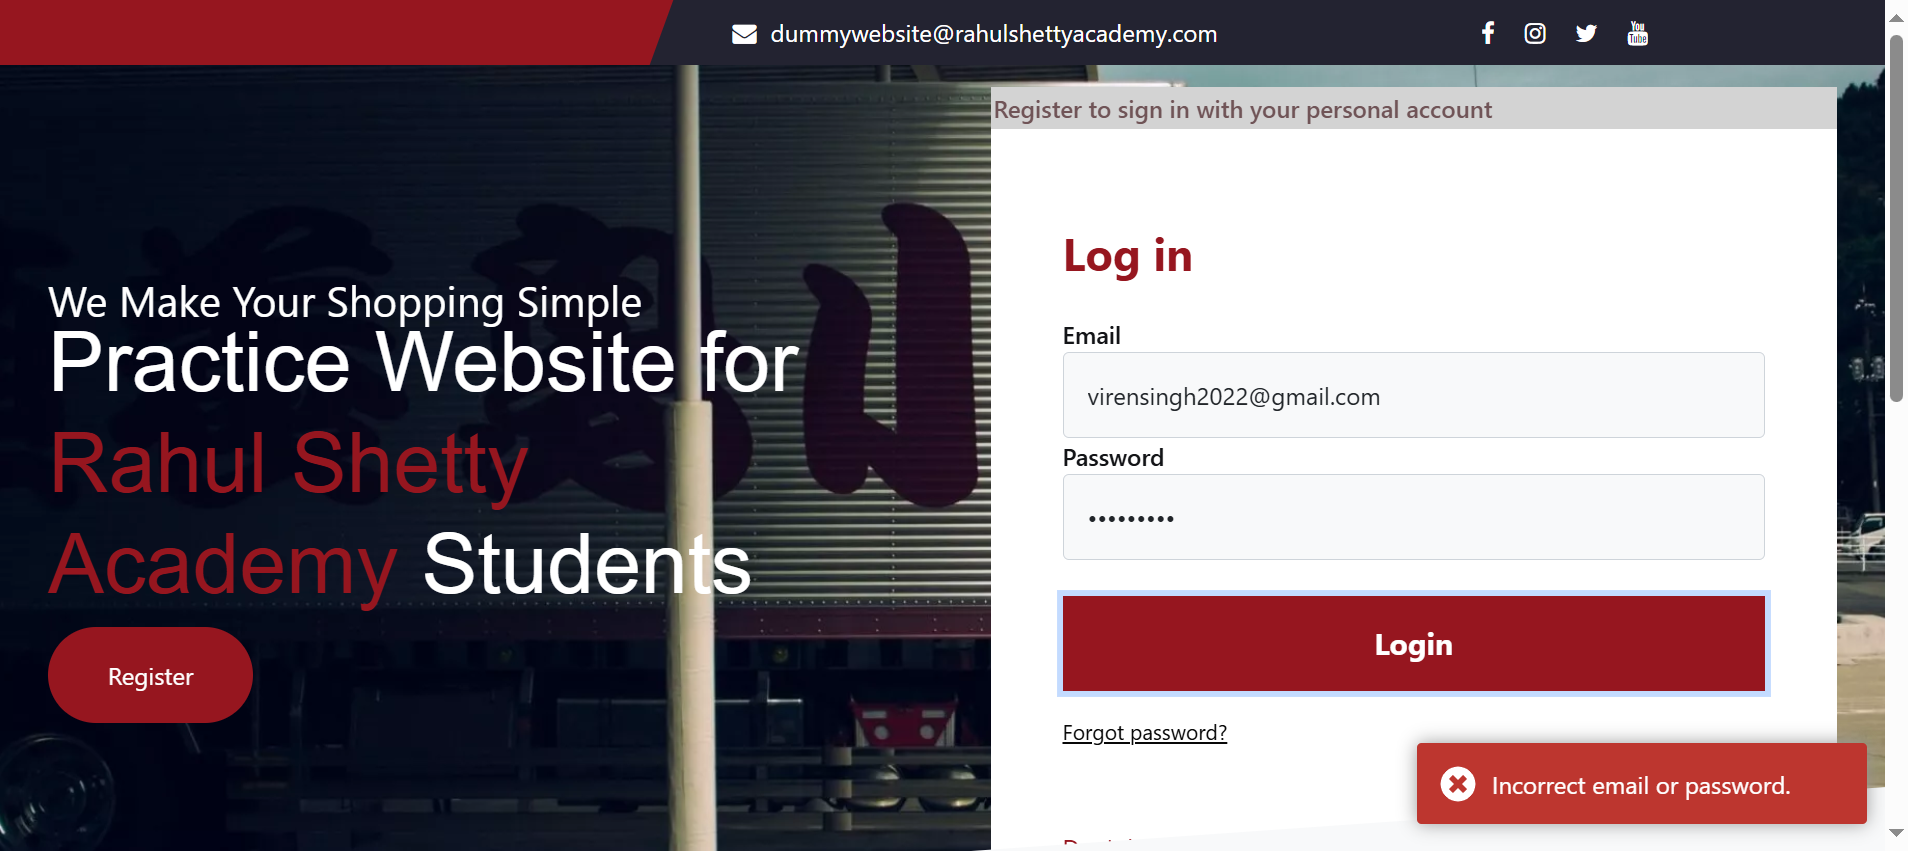
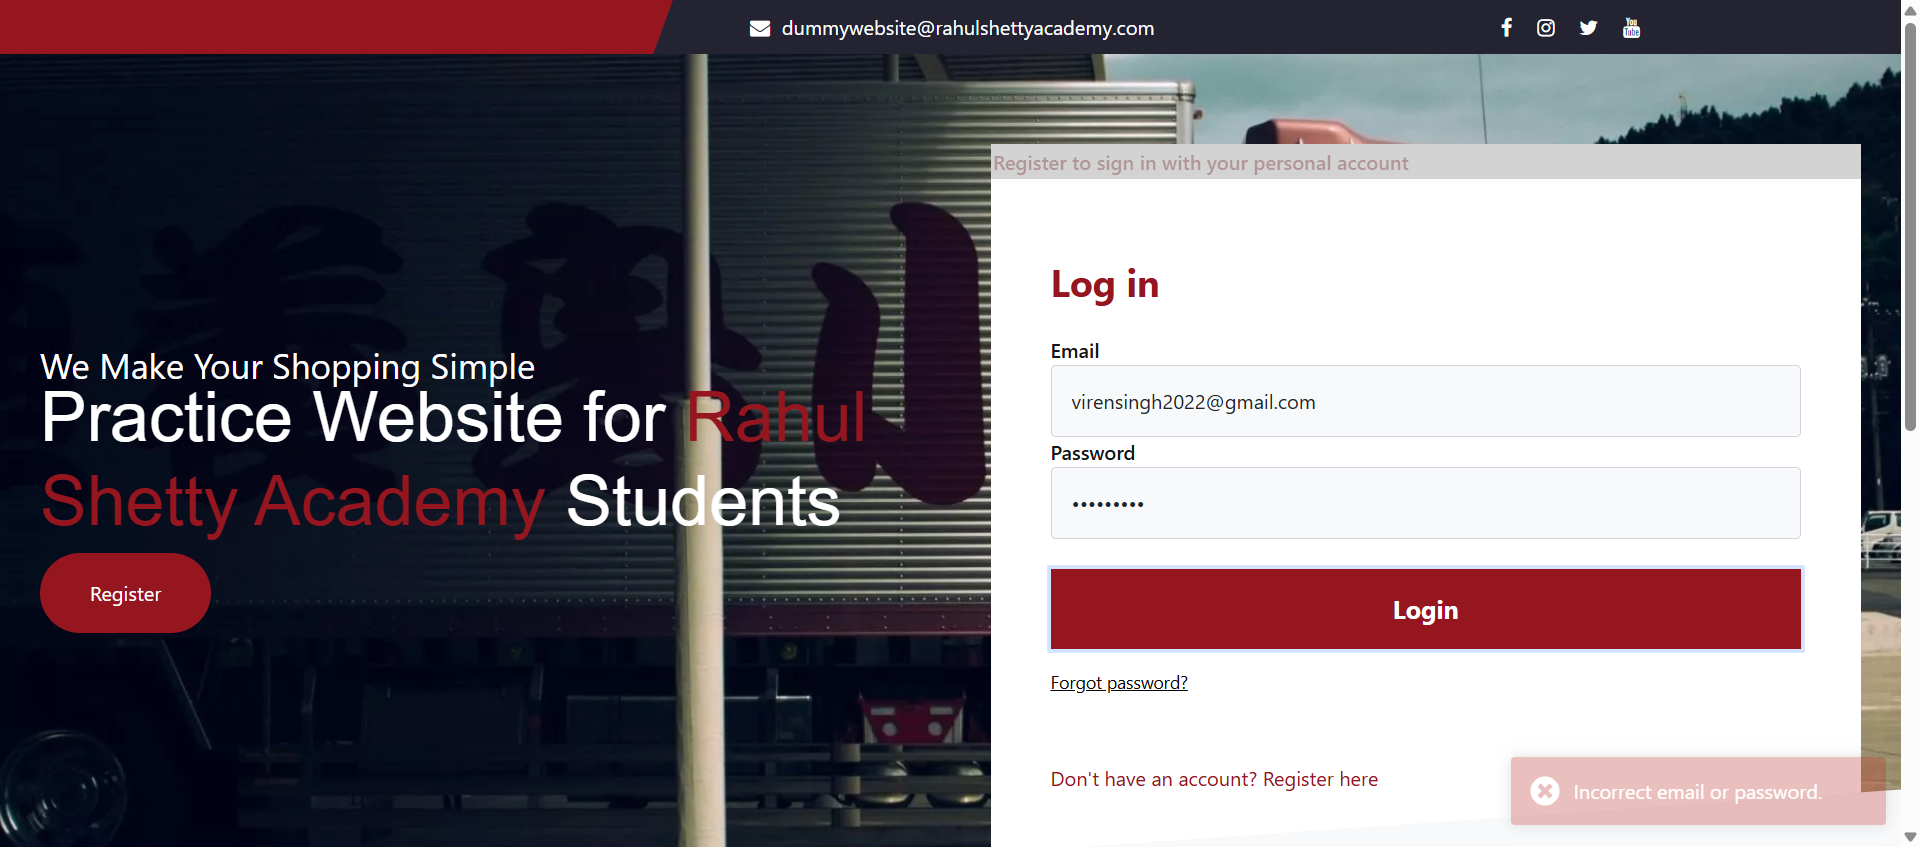
added headless browser and maximized window

diff --git a/reports/index.html b/reports/index.html
@@ -35,7 +35,7 @@
 <a href="#"><span class="badge badge-primary">Web Automation Results</span></a>
 </li>
 <li class="m-r-10">
-<a href="#"><span class="badge badge-primary">May 29, 2025 09:48:03 am</span></a>
+<a href="#"><span class="badge badge-primary">May 31, 2025 01:58:35 AM</span></a>
 </li>
 </ul>
 </div>
@@ -87,7 +87,7 @@
           <div class="test-detail">
             <p class="name">LoginErrorValidation</p>
             <p class="text-sm">
-              <span>09:48:20</span> / <span>00:00:00:000</span>
+              <span>1:58:41 AM</span> / <span>00:00:00:000</span>
               <span class="badge pass-bg log float-right">Pass</span>
             </p>
           </div>
@@ -96,8 +96,8 @@
 <div class="p-v-10">
 <div class="info">
 <h5 class="test-status text-pass">LoginErrorValidation</h5>
-<span class='badge badge-success'>05.29.2025 09:48:20</span>
-<span class='badge badge-danger'>05.29.2025 09:48:20</span>
+<span class='badge badge-success'>05.31.2025 1:58:41 AM</span>
+<span class='badge badge-danger'>05.31.2025 1:58:41 AM</span>
 <span class='badge badge-default'>00:00:00:000</span>
 &middot; <span class='uri-anchor badge badge-default'>#test-id=1</span>
 <span title='Skip to the next failed step' class='badge badge-danger pointer float-right ne ml-1'><i class="fa fa-fast-forward"></i></span>
@@ -114,7 +114,7 @@
           <div class="test-detail">
             <p class="name">SubmitOrder</p>
             <p class="text-sm">
-              <span>09:48:20</span> / <span>00:00:23:235</span>
+              <span>1:58:41 AM</span> / <span>00:00:19:835</span>
               <span class="badge pass-bg log float-right">Pass</span>
             </p>
           </div>
@@ -123,9 +123,9 @@
 <div class="p-v-10">
 <div class="info">
 <h5 class="test-status text-pass">SubmitOrder</h5>
-<span class='badge badge-success'>05.29.2025 09:48:20</span>
-<span class='badge badge-danger'>05.29.2025 09:48:43</span>
-<span class='badge badge-default'>00:00:23:235</span>
+<span class='badge badge-success'>05.31.2025 1:58:41 AM</span>
+<span class='badge badge-danger'>05.31.2025 1:59:01 AM</span>
+<span class='badge badge-default'>00:00:19:835</span>
 &middot; <span class='uri-anchor badge badge-default'>#test-id=2</span>
 <span title='Skip to the next failed step' class='badge badge-danger pointer float-right ne ml-1'><i class="fa fa-fast-forward"></i></span>
 <span title='Collapse all nodes' class='badge badge-default pointer float-right ct ml-1'><i class="fa fa-compress"></i></span>
@@ -138,7 +138,7 @@
   <tbody>
       <tr class="event-row">
         <td><span class="badge log pass-bg">Pass</span></td>
-        <td>09:48:43</td>
+        <td>1:59:01 AM</td>
         <td>
           Test Passed
         </td>
@@ -155,7 +155,7 @@
           <div class="test-detail">
             <p class="name">LoginErrorValidation</p>
             <p class="text-sm">
-              <span>09:48:32</span> / <span>00:00:01:826</span>
+              <span>1:58:44 AM</span> / <span>00:00:00:693</span>
               <span class="badge fail-bg log float-right">Fail</span>
             </p>
           </div>
@@ -164,9 +164,9 @@
 <div class="p-v-10">
 <div class="info">
 <h5 class="test-status text-fail">LoginErrorValidation</h5>
-<span class='badge badge-success'>05.29.2025 09:48:32</span>
-<span class='badge badge-danger'>05.29.2025 09:48:34</span>
-<span class='badge badge-default'>00:00:01:826</span>
+<span class='badge badge-success'>05.31.2025 1:58:44 AM</span>
+<span class='badge badge-danger'>05.31.2025 1:58:44 AM</span>
+<span class='badge badge-default'>00:00:00:693</span>
 &middot; <span class='uri-anchor badge badge-default'>#test-id=3</span>
 <span title='Skip to the next failed step' class='badge badge-danger pointer float-right ne ml-1'><i class="fa fa-fast-forward"></i></span>
 <span title='Collapse all nodes' class='badge badge-default pointer float-right ct ml-1'><i class="fa fa-compress"></i></span>
@@ -187,7 +187,7 @@
   <tbody>
       <tr class="event-row">
         <td><span class="badge log fail-bg">Fail</span></td>
-        <td>09:48:33</td>
+        <td>1:58:44 AM</td>
         <td>
           <textarea readonly class="code-block">java.lang.AssertionError: expected [Incorrect email or password.] but found [Incorrect email  password.]
 	at org.testng.Assert.fail(Assert.java:111)
@@ -235,7 +235,7 @@
           <div class="test-detail">
             <p class="name">ProductErrorValidation</p>
             <p class="text-sm">
-              <span>09:48:41</span> / <span>00:00:02:980</span>
+              <span>1:58:46 AM</span> / <span>00:00:01:910</span>
               <span class="badge pass-bg log float-right">Pass</span>
             </p>
           </div>
@@ -244,9 +244,9 @@
 <div class="p-v-10">
 <div class="info">
 <h5 class="test-status text-pass">ProductErrorValidation</h5>
-<span class='badge badge-success'>05.29.2025 09:48:41</span>
-<span class='badge badge-danger'>05.29.2025 09:48:44</span>
-<span class='badge badge-default'>00:00:02:980</span>
+<span class='badge badge-success'>05.31.2025 1:58:46 AM</span>
+<span class='badge badge-danger'>05.31.2025 1:58:48 AM</span>
+<span class='badge badge-default'>00:00:01:910</span>
 &middot; <span class='uri-anchor badge badge-default'>#test-id=4</span>
 <span title='Skip to the next failed step' class='badge badge-danger pointer float-right ne ml-1'><i class="fa fa-fast-forward"></i></span>
 <span title='Collapse all nodes' class='badge badge-default pointer float-right ct ml-1'><i class="fa fa-compress"></i></span>
@@ -259,7 +259,7 @@
   <tbody>
       <tr class="event-row">
         <td><span class="badge log pass-bg">Pass</span></td>
-        <td>09:48:44</td>
+        <td>1:58:48 AM</td>
         <td>
           Test Passed
         </td>
@@ -276,7 +276,7 @@
           <div class="test-detail">
             <p class="name">SubmitOrder</p>
             <p class="text-sm">
-              <span>09:48:49</span> / <span>00:00:21:533</span>
+              <span>1:59:02 AM</span> / <span>00:00:19:690</span>
               <span class="badge pass-bg log float-right">Pass</span>
             </p>
           </div>
@@ -285,9 +285,9 @@
 <div class="p-v-10">
 <div class="info">
 <h5 class="test-status text-pass">SubmitOrder</h5>
-<span class='badge badge-success'>05.29.2025 09:48:49</span>
-<span class='badge badge-danger'>05.29.2025 09:49:11</span>
-<span class='badge badge-default'>00:00:21:533</span>
+<span class='badge badge-success'>05.31.2025 1:59:02 AM</span>
+<span class='badge badge-danger'>05.31.2025 1:59:22 AM</span>
+<span class='badge badge-default'>00:00:19:690</span>
 &middot; <span class='uri-anchor badge badge-default'>#test-id=5</span>
 <span title='Skip to the next failed step' class='badge badge-danger pointer float-right ne ml-1'><i class="fa fa-fast-forward"></i></span>
 <span title='Collapse all nodes' class='badge badge-default pointer float-right ct ml-1'><i class="fa fa-compress"></i></span>
@@ -300,7 +300,7 @@
   <tbody>
       <tr class="event-row">
         <td><span class="badge log pass-bg">Pass</span></td>
-        <td>09:49:11</td>
+        <td>1:59:22 AM</td>
         <td>
           Test Passed
         </td>
@@ -317,7 +317,7 @@
           <div class="test-detail">
             <p class="name">OrderHistoryTest</p>
             <p class="text-sm">
-              <span>09:49:17</span> / <span>00:00:01:332</span>
+              <span>1:59:23 AM</span> / <span>00:00:00:586</span>
               <span class="badge pass-bg log float-right">Pass</span>
             </p>
           </div>
@@ -326,9 +326,9 @@
 <div class="p-v-10">
 <div class="info">
 <h5 class="test-status text-pass">OrderHistoryTest</h5>
-<span class='badge badge-success'>05.29.2025 09:49:17</span>
-<span class='badge badge-danger'>05.29.2025 09:49:18</span>
-<span class='badge badge-default'>00:00:01:332</span>
+<span class='badge badge-success'>05.31.2025 1:59:23 AM</span>
+<span class='badge badge-danger'>05.31.2025 1:59:24 AM</span>
+<span class='badge badge-default'>00:00:00:586</span>
 &middot; <span class='uri-anchor badge badge-default'>#test-id=6</span>
 <span title='Skip to the next failed step' class='badge badge-danger pointer float-right ne ml-1'><i class="fa fa-fast-forward"></i></span>
 <span title='Collapse all nodes' class='badge badge-default pointer float-right ct ml-1'><i class="fa fa-compress"></i></span>
@@ -341,7 +341,7 @@
   <tbody>
       <tr class="event-row">
         <td><span class="badge log pass-bg">Pass</span></td>
-        <td>09:49:18</td>
+        <td>1:59:24 AM</td>
         <td>
           Test Passed
         </td>
@@ -392,7 +392,7 @@
 <tbody>
 <tr class="tag-test-status" status="fail">
 <td><span class="badge log fail-bg">Fail</span></td>
-<td>09:48:32 am</td>
+<td>01:58:44 AM</td>
 <td>
 <a href="#" class="linked" test-id='3' id='3'>LoginErrorValidation</a>
 </td>
@@ -414,13 +414,13 @@
 <div class="col-md-3">
 <div class="card"><div class="card-body">
 <p class="m-b-0">Started</p>
-<h3>May 29, 2025 09:48:03 am</h3>
+<h3>May 31, 2025 01:58:35 AM</h3>
 </div></div>
 </div>
 <div class="col-md-3">
 <div class="card"><div class="card-body">
 <p class="m-b-0">Ended</p>
-<h3>May 29, 2025 09:49:19 am</h3>
+<h3>May 31, 2025 01:59:24 AM</h3>
 </div></div>
 </div>
 <div class="col-md-3">
@@ -490,7 +490,7 @@
 </div></div>
 <script>
 var timeline = {
-"LoginErrorValidation":0,"SubmitOrder":23.235,"LoginErrorValidation":1.826,"ProductErrorValidation":2.98,"SubmitOrder":21.533,"OrderHistoryTest":1.332
+"LoginErrorValidation":0,"SubmitOrder":19.835,"LoginErrorValidation":0.693,"ProductErrorValidation":1.91,"SubmitOrder":19.69,"OrderHistoryTest":0.586
 };
 </script>
 <div class="row">

diff --git a/src/test/java/testComponents/BaseTest.java b/src/test/java/testComponents/BaseTest.java
@@ -4,6 +4,7 @@ import com.fasterxml.jackson.core.type.TypeReference;
 import com.fasterxml.jackson.databind.ObjectMapper;
 import io.github.bonigarcia.wdm.WebDriverManager;
 import org.apache.commons.io.FileUtils;
+import org.openqa.selenium.Dimension;
 import org.openqa.selenium.OutputType;
 import org.openqa.selenium.TakesScreenshot;
 import org.openqa.selenium.WebDriver;
@@ -50,7 +51,12 @@ public class BaseTest
             ChromeOptions options = new ChromeOptions();
             options.addArguments("--remote-allow-origins=*");
             options.addArguments("--incognito");
+            if(browserName.contains("headless"))
+            {
+                options.addArguments("headless");
+            }
             driver = new ChromeDriver(options);
+            driver.manage().window().setSize(new Dimension(1440,900)); // full screen
         }
         else if(browserName.equalsIgnoreCase("edge"))
         {
